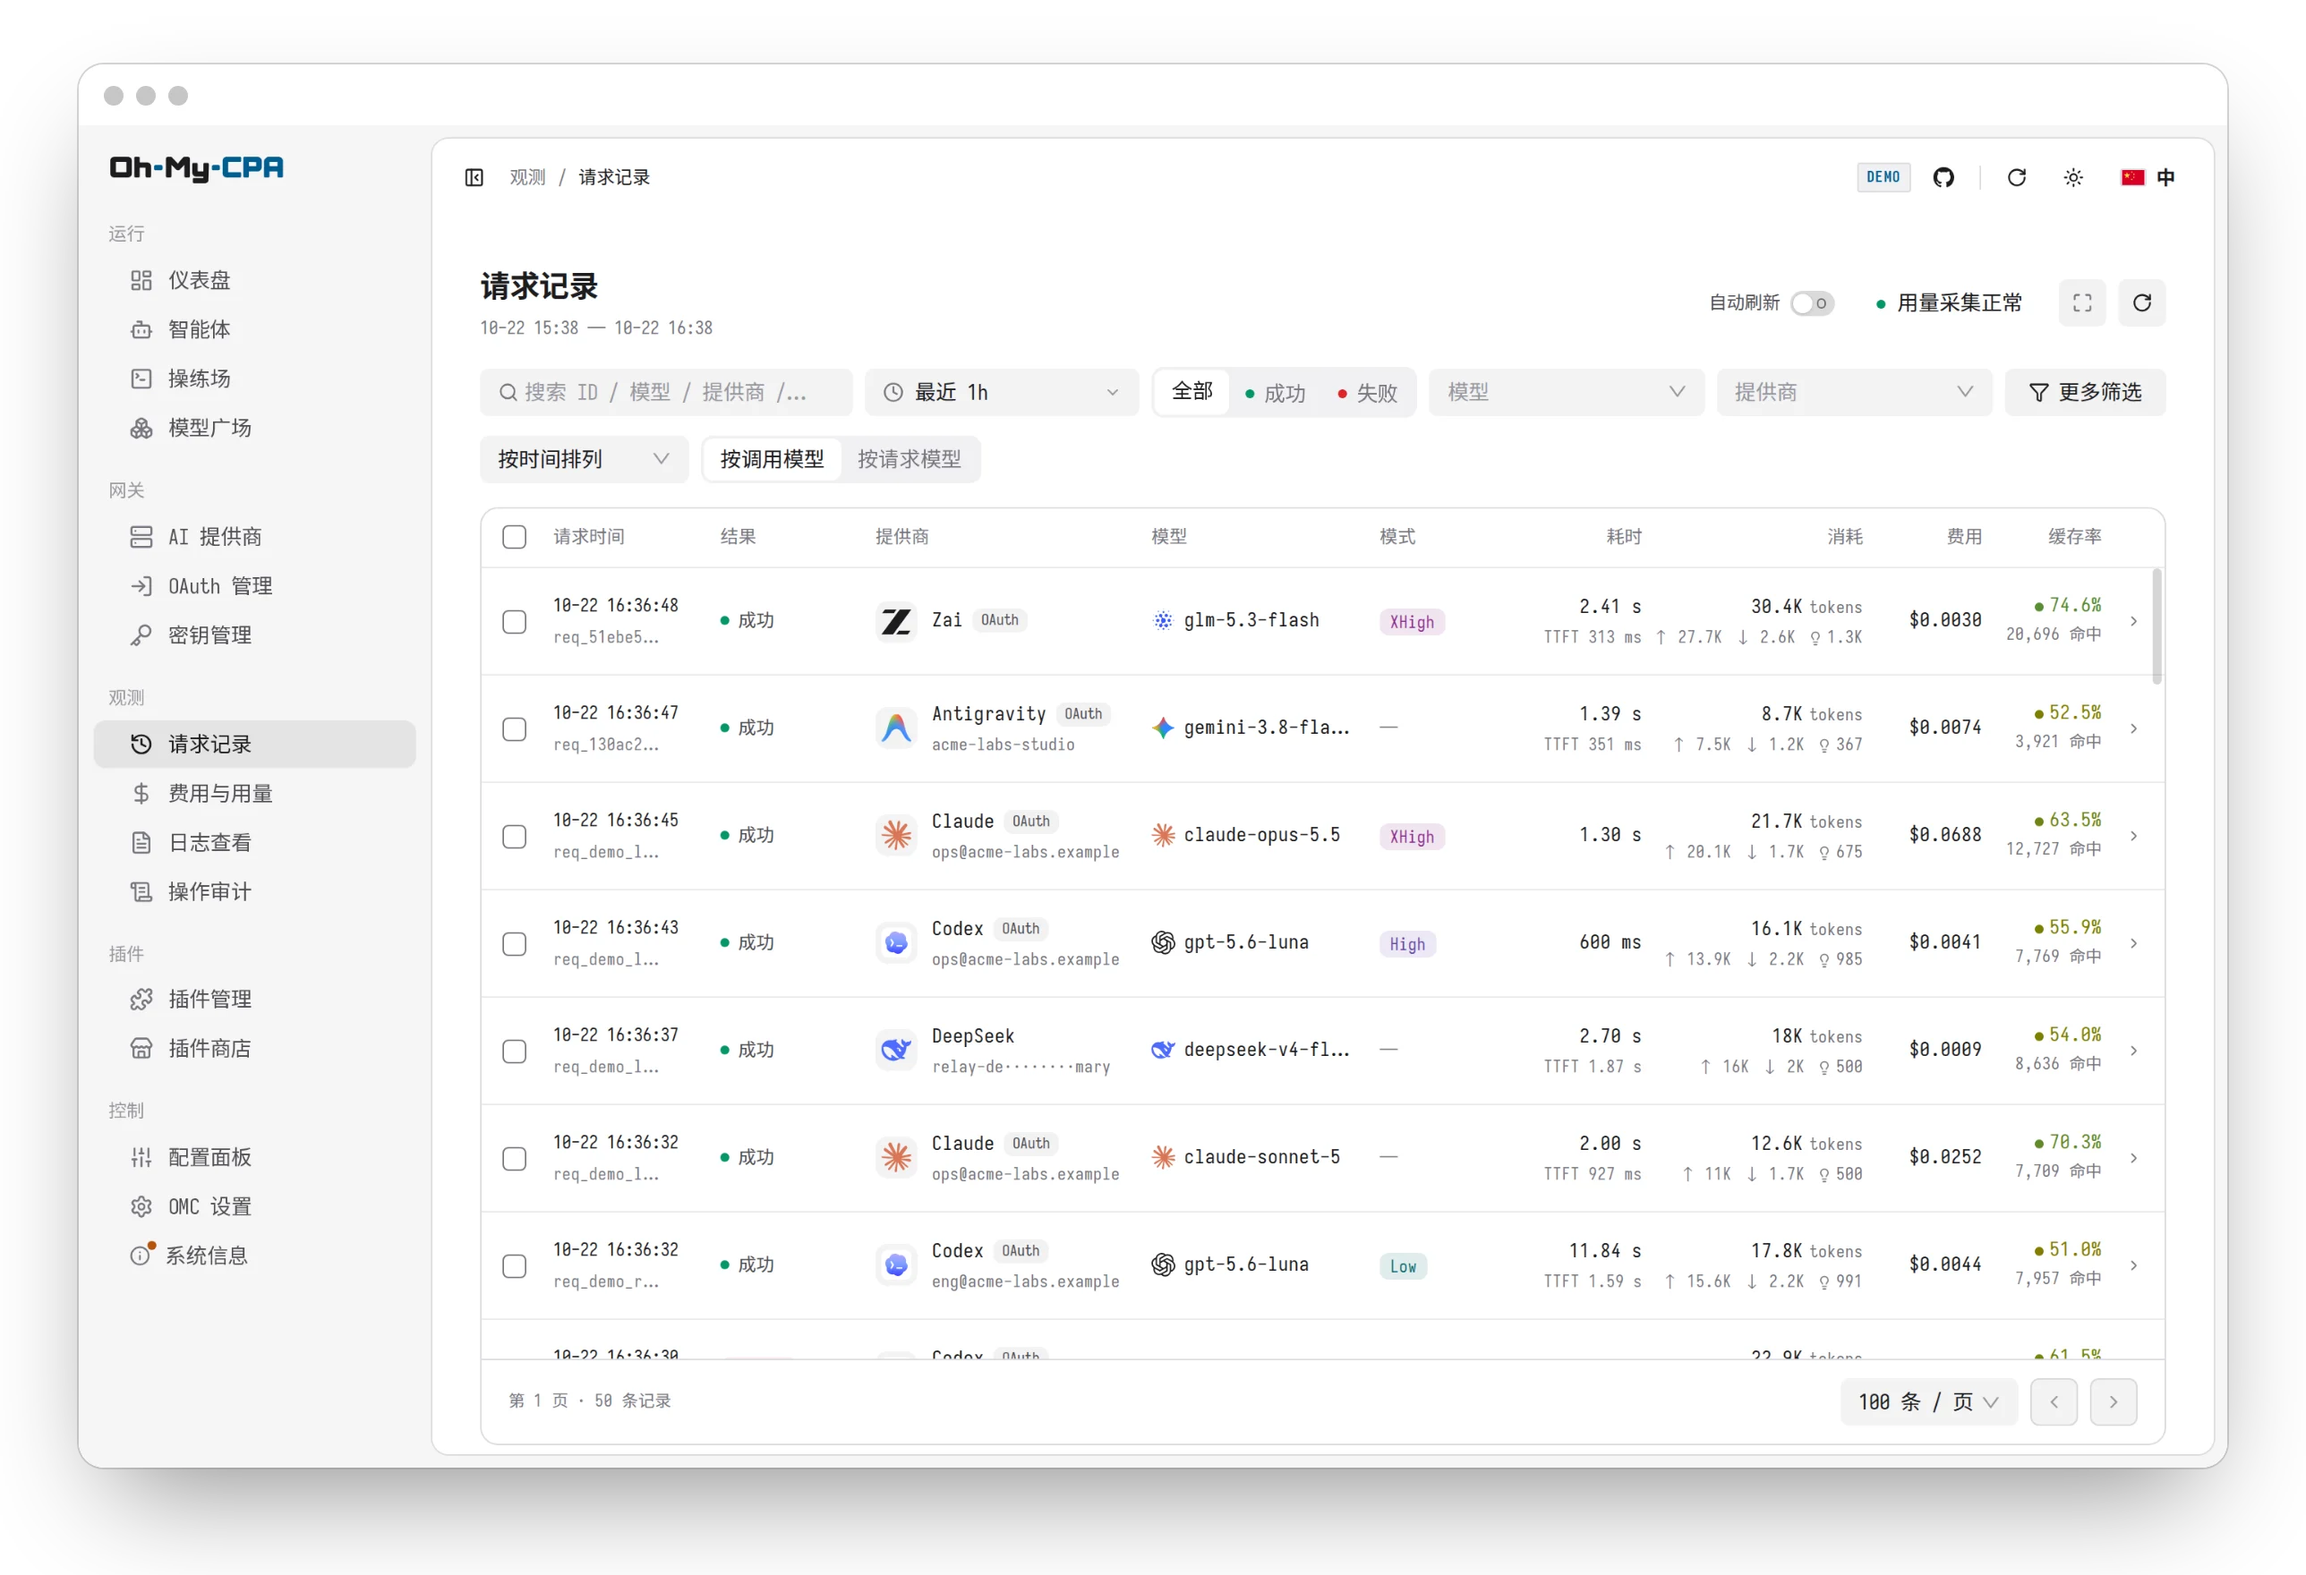
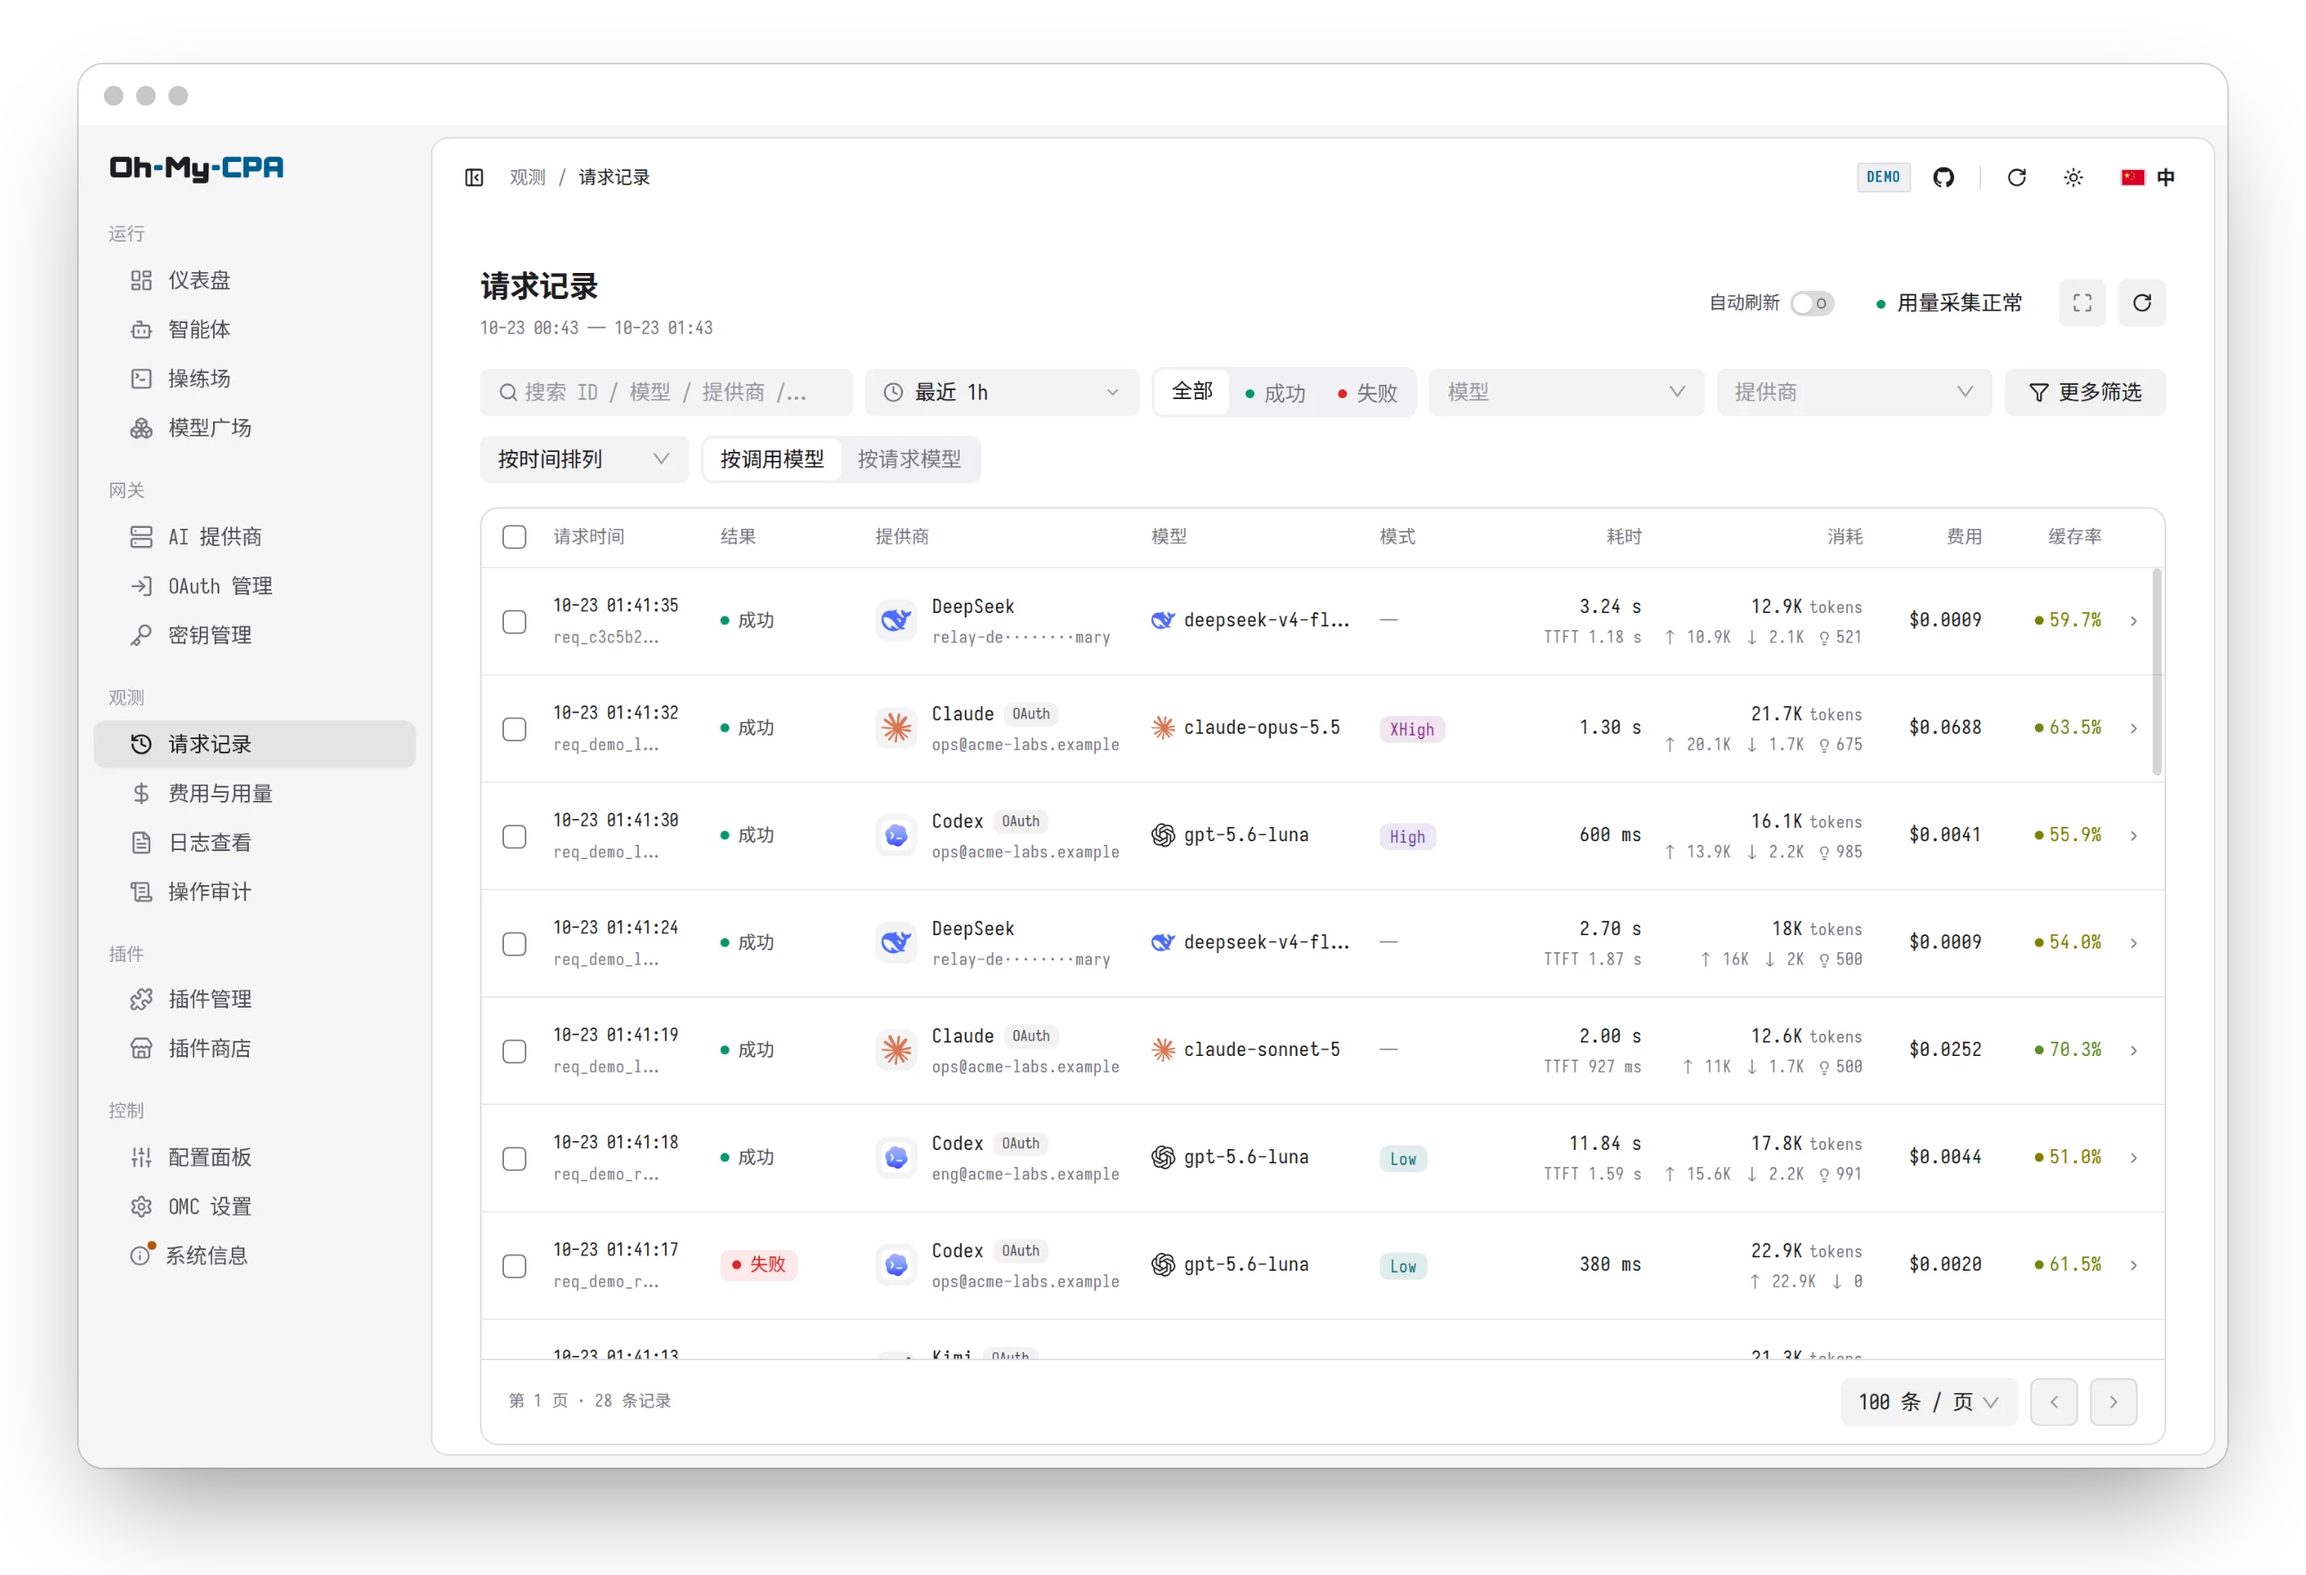
fix(usage): show only the hit rate in the cache cell
The request list's cache cell stacked the cached-token count under the
hit rate. From six-digit volumes that count is wider than the column, so
it wrapped mid-label onto a second line and broke the alignment the
neighbouring cells keep.

The cell draws the rate badge alone. The exact count is still reported by
the cell's tooltip, and the exported request-list image draws the same
single line so a picture matches the table. The request-list probe now
anchors on the badge, the element that carries that tooltip.

Regenerate the two README screenshots that picture this page. The phone
composite is untouched: the cache column is hidden at that width.

diff --git a/web/src/components/usage/RequestRow.tsx b/web/src/components/usage/RequestRow.tsx
@@ -462,23 +462,18 @@ export const RequestRow = React.memo<RequestRowProps>(
                 : t('events.cache_no_data')
             }
           >
-            <div className="req-cache-hit">
-              {/* One badge for every reading: 0% keeps the pill, the dot and the
-                  count line — it is a real value, not a missing one. Only the
-                  no-data case drops to the neutral stop. */}
-              <span
-                className={`req-cache-pill${cache.hasData ? '' : ' is-empty'}`}
-                style={cacheScaleStyle}
-              >
-                <i className="req-cache-bullet" />
-                {cacheLabel}
-              </span>
-              {cache.hasData && (
-                <span className="req-cache-count">
-                  {t('events.cache_hit_count', { count: cache.cached.toLocaleString() })}
-                </span>
-              )}
-            </div>
+            {/* One badge for every reading: 0% keeps the pill and the dot — it
+                is a real value, not a missing one. Only the no-data case drops
+                to the neutral stop. The cached count lives in the tooltip: as a
+                second line here it wrapped at six-digit volumes and pushed the
+                row taller. */}
+            <span
+              className={`req-cache-pill${cache.hasData ? '' : ' is-empty'}`}
+              style={cacheScaleStyle}
+            >
+              <i className="req-cache-bullet" />
+              {cacheLabel}
+            </span>
           </RequestTooltip>
         </div>
 

diff --git a/web/src/i18n/index.tsx b/web/src/i18n/index.tsx
@@ -2837,7 +2837,6 @@ const DICT: Record<string, [string, string]> = {
   'events.cache_read_tokens': ['缓存读取', 'Cache Read'],
   'events.cache_creation_tokens': ['缓存创建', 'Cache Creation'],
   'events.cache_rate_tooltip': ['缓存命中率 {rate}（命中 {count} 缓存 Tokens）', 'Cache hit rate {rate} ({count} cached tokens)'],
-  'events.cache_hit_count': ['{count} 命中', '{count} hit'],
   'events.cache_no_data': ['无缓存记录', 'No cache data'],
   'events.correlated_errors': ['关联异常与凭据状态', 'Correlated Errors & Credential Status'],
   'events.download_log': ['下载请求日志', 'Download Request Log'],

diff --git a/web/src/components/usage/requestSheetModel.ts b/web/src/components/usage/requestSheetModel.ts
@@ -321,9 +321,6 @@ export function buildRequestSheet(input: RequestSheetInput): RequestSheet {
               ? { kind: 'dot', text: formatCacheRate(cache.rate), tone: 'success', cacheRate: cache.rate }
               : { kind: 'dot', text: '—', tone: 'muted' },
           ],
-          ...(cache.hasData
-            ? [[text(t('events.cache_hit_count', { count: cache.cached.toLocaleString() }), 'muted', 11)]]
-            : []),
         ],
       },
       key: { lines: [[text(eventKeyLabel(event), 'fg2', 12, 500)]] },

diff --git a/web/src/components/usage/RequestList.css b/web/src/components/usage/RequestList.css
@@ -572,12 +572,6 @@
 .req-col-cache {
   justify-content: center;
 }
-.req-cache-hit {
-  display: flex;
-  flex-direction: column;
-  align-items: flex-end;
-  gap: 2px;
-}
 .req-cache-pill {
   --cache-rate-hue: color-mix(
     in oklch,
@@ -603,11 +597,6 @@
   height: 6px;
   border-radius: 999px;
   background: var(--cache-rate-hue);
-}
-.req-cache-count {
-  font-size: var(--text-xs);
-  color: var(--muted);
-  font-variant-numeric: tabular-nums;
 }
 /* Column 9: Key (caller key / group label) */
 .req-col-key {

diff --git a/web/src/i18n/locales/ms.ts b/web/src/i18n/locales/ms.ts
@@ -2509,7 +2509,6 @@ export const MS: Readonly<Record<string, string>> = {
   "events.cache_read_tokens": "Bacaan Cache",
   "events.cache_creation_tokens": "Penciptaan Cache",
   "events.cache_rate_tooltip": "Kadar hit cache {rate} ({count} token cache)",
-  "events.cache_hit_count": "{count} pukulan",
   "events.cache_no_data": "Tiada data cache",
   "events.correlated_errors": "Ralat Berkaitan & Status Kredensial",
   "events.download_log": "Muat Turun Log Permintaan",

diff --git a/web/src/i18n/locales/zh-Hant.ts b/web/src/i18n/locales/zh-Hant.ts
@@ -2509,7 +2509,6 @@ export const ZH_HANT: Readonly<Record<string, string>> = {
   "events.cache_read_tokens": "快取讀取",
   "events.cache_creation_tokens": "快取建立",
   "events.cache_rate_tooltip": "快取命中率 {rate}（命中 {count} 快取 Tokens）",
-  "events.cache_hit_count": "{count} 命中",
   "events.cache_no_data": "無快取記錄",
   "events.correlated_errors": "關聯異常與憑據狀態",
   "events.download_log": "下載請求日誌",
